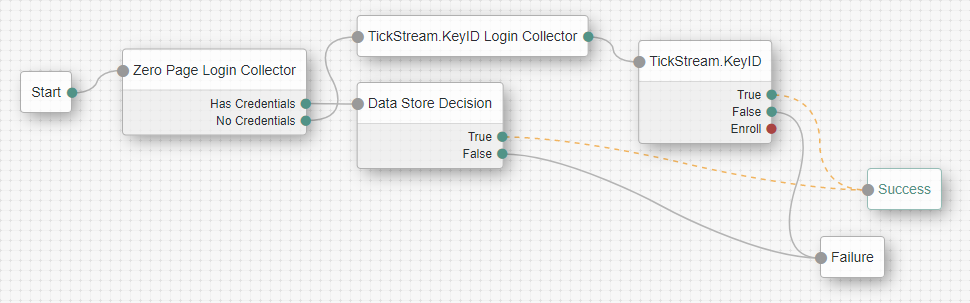
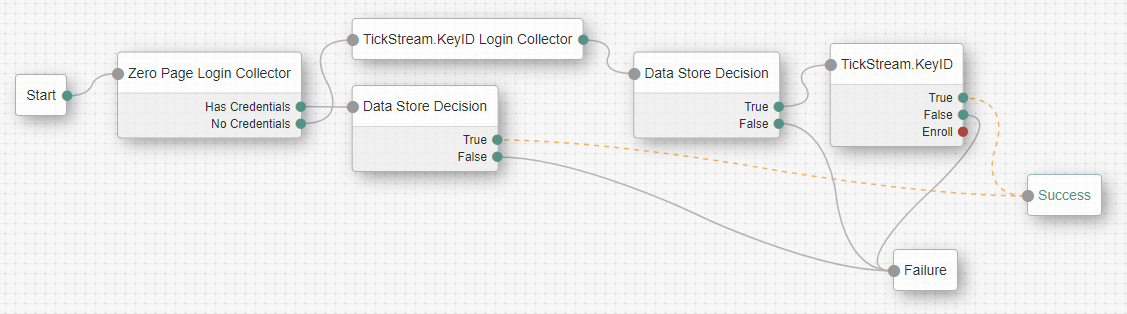
Squashed commit of the following:
commit a7ade0e5c73aa5378153f64eb06f89f58c5d99a3
Author: Jonathan Galentine <j.galentine@gmail.com>
Date:   Mon Apr 30 19:34:19 2018 -0600

    Update KeyID version.

commit d6789af5a0109237c22ca455acaf4aeb362c1c79
Author: Jonathan Galentine <j.galentine@gmail.com>
Date:   Mon Apr 30 13:37:55 2018 -0600

    Update authtree diagram.

commit d616fa63684271352a933711e60d815927b1e241
Author: Jonathan Galentine <j.galentine@gmail.com>
Date:   Sun Apr 29 17:30:00 2018 -0600

    Refactor methods, not tested.

diff --git a/src/main/java/com/intensityanalytics/openam/auth/nodes/KeyIDNode.java b/src/main/java/com/intensityanalytics/openam/auth/nodes/KeyIDNode.java
@@ -30,11 +30,10 @@ import javax.inject.Inject;
 import com.intensityanalytics.keyid.*;
 import com.google.gson.JsonObject;
 import org.forgerock.util.i18n.PreferredLocales;
-import java.io.PrintWriter;
-import java.io.StringWriter;
 import java.util.List;
 import java.util.ResourceBundle;
 import static com.intensityanalytics.openam.auth.nodes.Constants.TSDATA;
+import static com.intensityanalytics.openam.auth.nodes.Utility.*;
 import static org.forgerock.openam.auth.node.api.SharedStateConstants.USERNAME;
 
 /**
@@ -150,59 +149,38 @@ public class KeyIDNode extends AbstractDecisionNode
     {
         debug.message("KeyIDNode.process() called");
         JsonValue sharedState = context.sharedState.copy();
-        JsonObject result;
-        
+
         try
         {
             String username = sharedState.get(USERNAME).asString();
             String tsData = sharedState.get(TSDATA).asString();
-            debug.warning(String.format("KeyID evaluation started for user %s", username));
-            debug.message(String.format("KeyID tsData: %s", tsData));
-
-            result = client.Login(username, tsData, "").get();
-
-            if (!result.get("Error").getAsString().isEmpty())
-                throw new NodeProcessException("KeyID Error: " + result.get("Error").getAsString());
-
-            debug.message(String.format("KeyID behavior statistics: Match=%b, Confidence=%f, Fidelity=%f, Profiles=%d, IsReady=%b",
-                                        result.get("Match").getAsBoolean(),
-                                        result.get("Confidence").getAsDouble(),
-                                        result.get("Fidelity").getAsDouble(),
-                                        result.get("Profiles").getAsInt(),
-                                        result.get("IsReady").getAsBoolean()));
+            JsonObject loginResult = keyIDLogin(username, tsData);
 
             // handle active enrollment
             if (config.loginEnrollment() &&
                 !config.passiveEnrollment() &&
-                !result.get("IsReady").getAsBoolean())
+                !loginResult.get("IsReady").getAsBoolean())
             {
                 return Action.goTo(ENROLL_OUTCOME).build();
             }
 
             // handle successful match and whether passive validation is enabled
-            if (result.get("Match").getAsBoolean() || config.passiveValidation())
+            if (loginResult.get("Match").getAsBoolean() || config.passiveValidation())
             {
                 String msg = String.format("KeyID behavior match %b, passive validation %b",
-                                           result.get("Match").getAsBoolean(),
+                                           loginResult.get("Match").getAsBoolean(),
                                            config.passiveValidation());
                 debug.warning(msg);
 
                 if (config.resetProfile())
-                {
-                    debug.warning(String.format("Resetting KeyID profile for %s", username));
-                    client.RemoveProfile(username, tsData, "").get();
-                }
+                    keyIDResetProfile(username, tsData);
 
                 return Action.goTo(TRUE_OUTCOME).build();
             }
         }
         catch (Exception e)
         {
-            // write full error detail to log
-            StringWriter sw = new StringWriter();
-            e.printStackTrace(new PrintWriter(sw));
-            String exceptionAsString = sw.toString();
-            debug.error("NodeProcessException: " + exceptionAsString);
+            debug.error("Exception: " + exceptionAsString(e));
 
             if(config.grantOnError())
             {
@@ -216,6 +194,45 @@ public class KeyIDNode extends AbstractDecisionNode
         // default case is to return failure, rely on default login failed error message
         debug.warning("KeyID behavior match failure");
         return Action.goTo(FALSE_OUTCOME).build();
+    }
+
+    /**
+     * Executes the KeyID login process and checks the result for errors.
+     * @param username  username
+     * @param tsData    tsData
+     * @return          KeyID login result.
+     * @throws Exception
+     */
+    private JsonObject keyIDLogin(String username, String tsData) throws Exception
+    {
+        debug.warning(String.format("KeyID evaluation started for user %s", username));
+        debug.message(String.format("KeyID tsData: %s", tsData));
+
+        JsonObject result = client.Login(username, tsData, "").get();
+
+        if (!result.get("Error").getAsString().isEmpty())
+            throw new NodeProcessException("KeyID Error: " + result.get("Error").getAsString());
+
+        debug.message(String.format("KeyID behavior statistics: Match=%b, Confidence=%f, Fidelity=%f, Profiles=%d, IsReady=%b",
+                                    result.get("Match").getAsBoolean(),
+                                    result.get("Confidence").getAsDouble(),
+                                    result.get("Fidelity").getAsDouble(),
+                                    result.get("Profiles").getAsInt(),
+                                    result.get("IsReady").getAsBoolean()));
+        return result;
+    }
+
+    /**
+     * Resets a KeyID profile
+     * @param username  username
+     * @param tsData    tsData
+     * @throws Exception
+     */
+    private void keyIDResetProfile(String username, String tsData) throws Exception
+    {
+        debug.warning(String.format("Resetting KeyID profile for %s", username));
+        client.RemoveProfile(username, tsData, "").get();
+        //todo need error checking here when rest webservice bug is fixed.
     }
 
     /**

diff --git a/src/main/java/com/intensityanalytics/openam/auth/nodes/Utility.java b/src/main/java/com/intensityanalytics/openam/auth/nodes/Utility.java
@@ -1,0 +1,14 @@
+package com.intensityanalytics.openam.auth.nodes;
+
+import java.io.PrintWriter;
+import java.io.StringWriter;
+
+public class Utility
+{
+    public static String exceptionAsString(Exception e)
+    {
+        StringWriter sw = new StringWriter();
+        e.printStackTrace(new PrintWriter(sw));
+        return sw.toString();
+    }
+}
